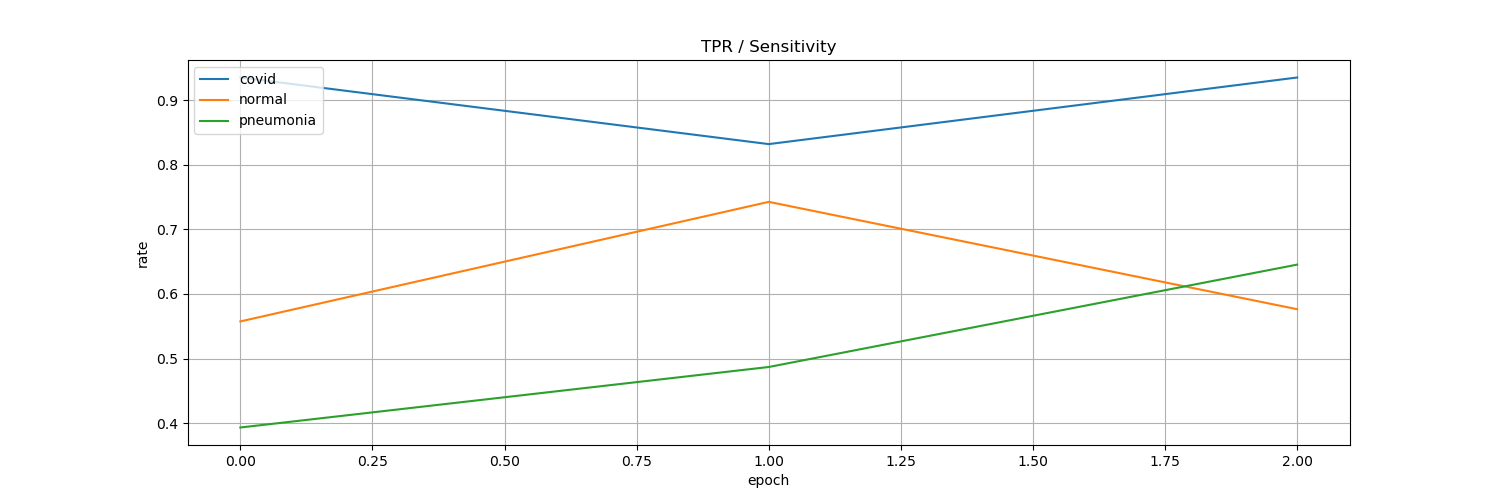
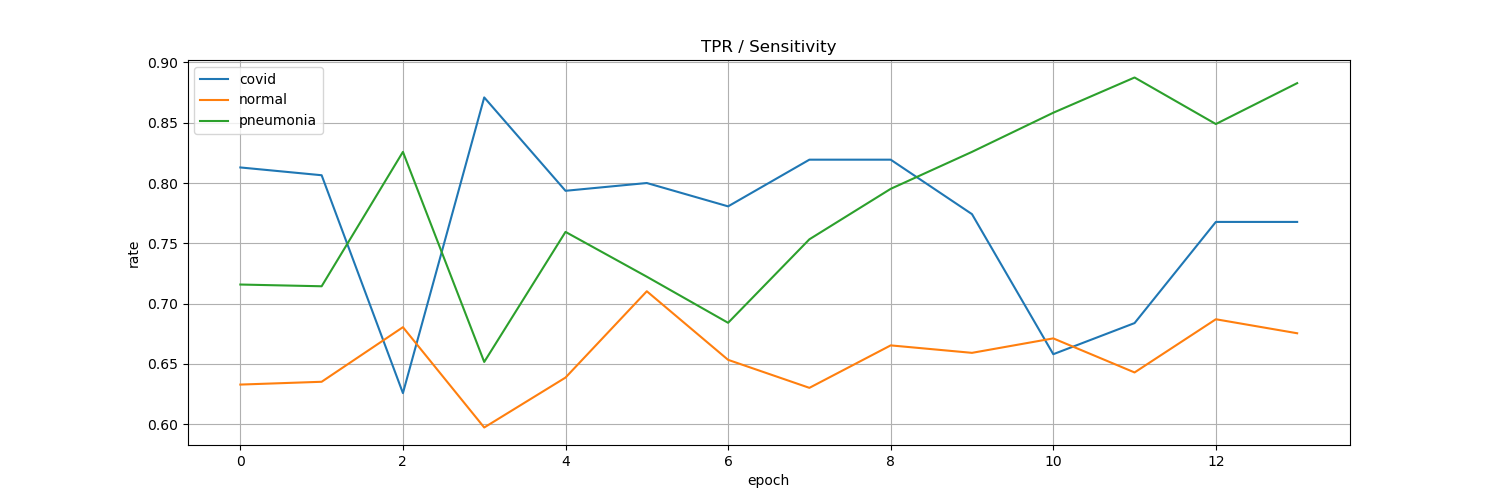
working tf graph of covid-net with training results

diff --git a/train.py b/train.py
@@ -22,6 +22,7 @@ def main():
     if params['model']['tool'] == 'pytorch':
         torch_train()
     elif (params['model']['tool'] == 'tensorflow') or (params['model']['tool'] == 'tf'):
+        print('starting tensorflow model..')
         params['model']['tool'] = 'tensorflow'
         tf_train()
     else:
@@ -68,7 +69,6 @@ def tf_train():
     # tensorflow session
     with tf.Session() as sess:
         tf.get_default_graph()
-        print('loading pretrained model..')
         saver = tf.train.import_meta_graph(os.path.join(params['model']['tensorflow']['weightspath'], params['model']['tensorflow']['metaname']))
         graph = tf.get_default_graph()
         image_tensor = graph.get_tensor_by_name(params['model']['tensorflow']['in_tensorname'])
@@ -89,9 +89,8 @@ def tf_train():
         sess.run(init)
 
         # load weights
-        print('loading checkpoints..')
-        saver.restore(sess, params['model']['tensorflow']['ckptname'])  # absolute path
-        # saver.restore(sess, os.path.join(params['model']['weightspath'], params['model']['ckptname']))  # relative path
+        # saver.restore(sess, params['model']['tensorflow']['ckptname'])  # absolte path
+        saver.restore(sess, os.path.join(params['model']['tensorflow']['weightspath'], params['model']['tensorflow']['ckptname']))  # relative path
         # saver.restore(sess, tf.train.latest_checkpoint(params['model']['weightspath']))
 
         # save base model
@@ -101,44 +100,54 @@ def tf_train():
         # eval(sess, graph, testfiles, os.path.join(args.datadir,'test'), args.in_tensorname, args.out_tensorname, args.input_size)
 
         # Training
-        print('Training started')
         n_batch = len(batch_generator)
         progbar = tf.keras.utils.Progbar(n_batch)
-        TPRs, PPVs = defaultdict(list) , defaultdict(list) 
+        if os.path.isfile(os.path.join(params['evaluate']['dir_prefix'], params['model']['name'], 'TPRs')):  # keep previous learning curves
+            TPRs = pickle.load(open(os.path.join(params['evaluate']['dir_prefix'], params['model']['name'], 'TPRs'), 'rb'))
+            PPVs = pickle.load(open(os.path.join(params['evaluate']['dir_prefix'], params['model']['name'], 'PPVs'), 'rb'))
+            last_epoch = len(TPRs[list(TPRs.keys())[0]])
+
+        else:  # start learning curves from refresh
+            TPRs, PPVs = defaultdict(list), defaultdict(list)
+            last_epoch = 0
         
-        for epoch in range(params['train']['epochs']):
+        for epoch in range(last_epoch, last_epoch + params['train']['epochs']):
             for i in range(n_batch):
                 _0 = time.time()
                 batch_x, batch_y, weights = next(batch_generator)
                 sess.run(train_op, feed_dict={image_tensor: batch_x, labels_tensor: batch_y, sample_weights: weights})
                 progbar.update(i+1)
                 _1 = time.time()
-                print(f"batch loss optimizing take {int(_1-_0)}s")
+                print(f" - batch loss optimizing take {int(_1-_0)}s")
 
-            print('calculating tpr, ppv from epoch..')
             # pred = sess.run(pred_tensor, feed_dict={image_tensor: batch_x})
             # loss = sess.run(loss, feed_dict={pred_tensor: pred, labels_tensor: batch_y, sample_weights: weights})
             # train_losses.append(loss)
             tpr, ppv = tf_evaluate(sess, graph, meta[meta.train!=1].copy(deep=True), 
                                 params['model']['tensorflow']['in_tensorname'], params['model']['tensorflow']['logit_tensorname'], epoch)
+            saver.save(sess, os.path.join('./model/', params['model']['name'], params['model']['name']), global_step=epoch+1, write_meta_graph=False)
+            print('Saving checkpoint at epoch {}'.format(epoch + 1))
+            
             for label, i in labelmap.items():
-                TPRs[label].append(tpr[i])  # this order is correct since sklearn.metrics.confusion_matrix is ordered by label integers
+                TPRs[label].append(tpr[i])  # this order is correct since sklearn.metrics.confusion_matrix is ordered by index that's the same index mapped from label
                 PPVs[label].append(ppv[i])  # same
             
             if (i+1) % params['train']['display_step'] == 0:
-                print('Epoch: [{0}][{1}/{2}]\t'
-                      'COVID TPR {:.4f}\t'
-                      'COVID PPV {:.4f}\t'.format(epoch, 
+                print('Epoch: [{}][{}/{}]\t'
+                      'COVID TPR {}\t'
+                      'COVID PPV {}\t'.format(epoch, 
                                                   i, 
                                                   n_batch, 
                                                   tpr[labelmap['covid']], 
                                                   ppv[labelmap['covid']]))
-                # eval(sess, graph, testfiles, os.path.join(args.datadir,'test'), args.in_tensorname, args.out_tensorname, args.input_size)
-                # saver.save(sess, os.path.join(runPath, 'model'), global_step=epoch+1, write_meta_graph=False)
-                # print('Saving checkpoint at epoch {}'.format(epoch + 1))
         
         # plot and save learning curves
         tf_plot_learning_curves(TPRs, PPVs)
+
+        with open(os.path.join(params['evaluate']['dir_prefix'], params['model']['name'], 'TPRs'), 'wb') as pickle_file:
+            pickle.dump(TPRs, pickle_file, pickle.HIGHEST_PROTOCOL)
+        with open(os.path.join(params['evaluate']['dir_prefix'], params['model']['name'], 'PPVs'), 'wb') as pickle_file:
+            pickle.dump(PPVs, pickle_file, pickle.HIGHEST_PROTOCOL)
         
     print("training finished.")
 

diff --git a/src/tf_batch_generator.py b/src/tf_batch_generator.py
@@ -116,7 +116,7 @@ class BalancedCovidBatch(keras.utils.Sequence):
 def augmentate(img):
     """img: numpy.ndarray x*y*z"""
     img = random_ratio_resize(img)
-    img = _augmentation_transform.random_transform(img)
+    img = _tf_augmentation_transform.random_transform(img)
     return img
 
 
